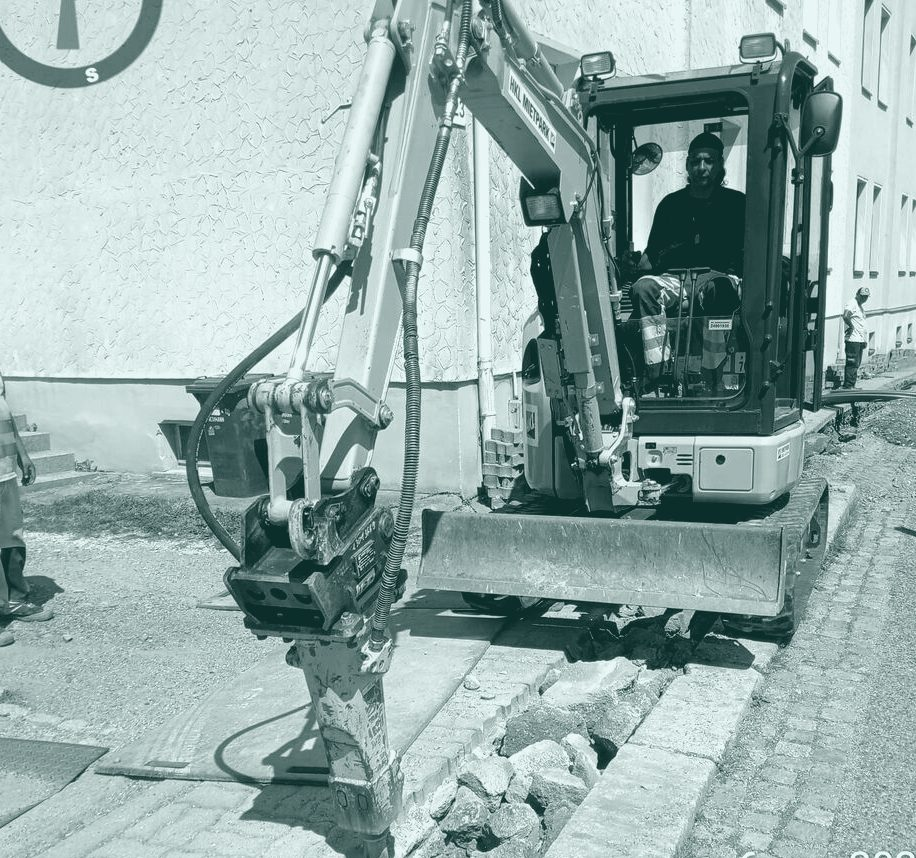
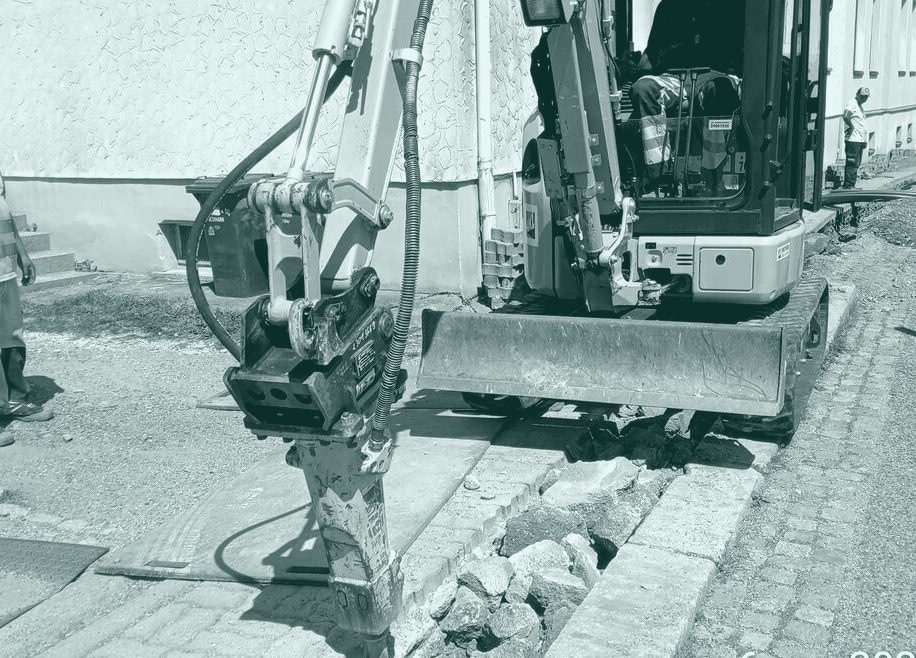
fix(site): crop hero photo to hide operator's face

diff --git a/prototype/umtelkomd-v11.html b/prototype/umtelkomd-v11.html
@@ -43,7 +43,7 @@
 
   /* HERO */
   .hero{position:relative;height:100svh;min-height:640px;color:#fff;overflow:hidden;background:var(--deep)}
-  .hero .bg{position:absolute;inset:-8% 0 0;background:url(assets/photos/aue-16.jpg) center/cover}
+  .hero .bg{position:absolute;inset:-8% 0 0;background:url(assets/photos/aue-16.jpg) center top/cover}
   .hero .shade{position:absolute;inset:0;background:linear-gradient(180deg,rgba(12,46,43,.55) 0%,rgba(12,46,43,.35) 45%,rgba(12,46,43,.85) 100%)}
   .hero .in{position:relative;z-index:2;height:100%;display:flex;flex-direction:column;justify-content:center;align-items:center;text-align:center}
   .hero h1{font-size:clamp(46px,8vw,124px);margin:0;max-width:14ch}
